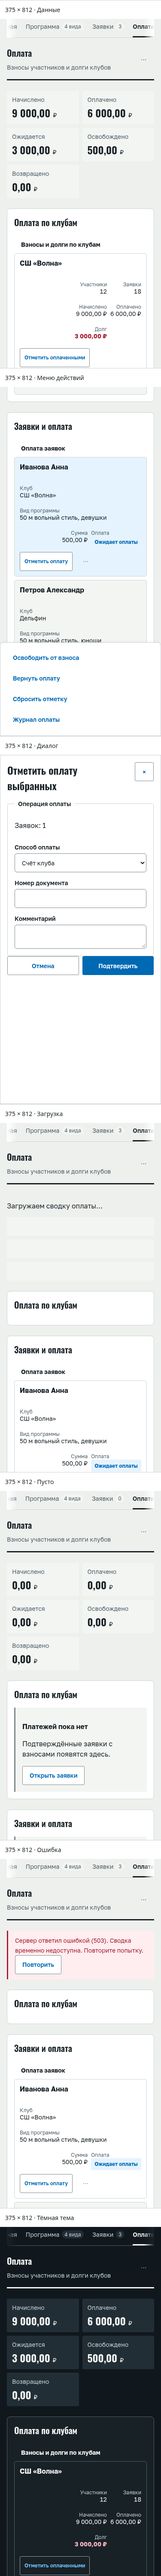
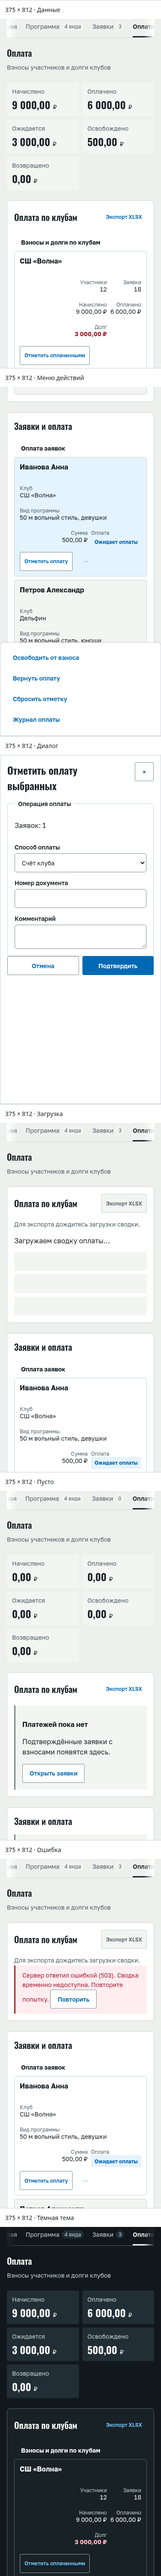
fix(payments-admin): address review menus and payment layout

diff --git a/sport-platform/frontend/src/features/payments/OrganizerPaymentsPage.tsx b/sport-platform/frontend/src/features/payments/OrganizerPaymentsPage.tsx
@@ -43,8 +43,15 @@ function PaymentMenu({ label, children }: { label: string; children: ReactNode }
     document.addEventListener('pointerdown', close)
     return () => { document.removeEventListener('keydown', close); document.removeEventListener('pointerdown', close) }
   }, [open])
-  return <><button ref={trigger} type="button" className="fl-btn fl-btn-ghost" aria-label={label} aria-haspopup="dialog" aria-expanded={open} aria-controls={open ? id : undefined} onClick={() => setOpen(!open)}>⋯</button>
-    {open && createPortal(<div ref={panel} id={id} className={styles.menu} role="dialog" aria-label={label} onClick={event => {
+  return <><button ref={trigger} type="button" className="fl-btn fl-btn-ghost" aria-label={label} aria-haspopup="menu" aria-expanded={open} aria-controls={open ? id : undefined} onClick={() => setOpen(!open)}>⋯</button>
+    {open && createPortal(<div ref={panel} id={id} className={styles.menu} role="menu" aria-label={label} onKeyDown={event => {
+      if (!['ArrowDown', 'ArrowUp', 'Home', 'End'].includes(event.key)) return
+      event.preventDefault()
+      const items = [...event.currentTarget.querySelectorAll<HTMLButtonElement>('[role="menuitem"]:not(:disabled)')]
+      const current = items.indexOf(document.activeElement as HTMLButtonElement)
+      const index = event.key === 'Home' ? 0 : event.key === 'End' ? items.length - 1 : (current + (event.key === 'ArrowDown' ? 1 : -1) + items.length) % items.length
+      items[index]?.focus()
+    }} onClick={event => {
       if ((event.target as HTMLElement).closest('button:not(:disabled)')) { setOpen(false); trigger.current?.focus() }
     }}>{children}</div>, document.body)}</>
 }
@@ -105,21 +112,23 @@ function PaymentsContent({ context }: { context: EventContext }) {
     { key: 'actions', header: 'Действия', render: r => <div className={styles.actions}>
       <Button disabled={disabled} title={disabledReason} onClick={() => setMutation({ ids: [r.id], amount: r.feeAmount })}>Отметить оплату</Button>
       <PaymentMenu label={`Действия оплаты: ${name(r)}`}>
-        {([['waive-payment', 'Освободить от взноса'], ['refund-payment', 'Вернуть оплату'], ['reset-payment', 'Сбросить отметку']] as const).map(([action, label]) => <Button key={action} variant="ghost" disabled={disabled} title={disabledReason} onClick={() => setMutation({ ids: [r.id], action, amount: action === 'refund-payment' ? r.paidAmount : undefined })}>{label}</Button>)}
-        <Button variant="ghost" onClick={() => setHistory(r.id)}>Журнал оплаты</Button>
+        {([['waive-payment', 'Освободить от взноса'], ['refund-payment', 'Вернуть оплату'], ['reset-payment', 'Сбросить отметку']] as const).map(([action, label]) => <Button key={action} role="menuitem" variant="ghost" disabled={disabled} title={disabledReason} onClick={() => setMutation({ ids: [r.id], action, amount: action === 'refund-payment' ? r.paidAmount : undefined })}>{label}</Button>)}
+        <Button role="menuitem" variant="ghost" onClick={() => setHistory(r.id)}>Журнал оплаты</Button>
       </PaymentMenu>
     </div> },
   ]
   return <section className={styles.page} aria-label="Оплата">
-    <header className={`fl-page-header ${styles.heading}`}><div><h2>Оплата</h2><p className="fl-meta">Взносы участников и долги клубов</p></div>
-      <PaymentMenu label="Действия оплаты"><Button variant="ghost" disabled={busy || !summary} title={busy ? disabledReason : !summary ? 'Сводка оплаты ещё не загружена' : undefined} onClick={() => { void run(() => downloadPaymentSummary(event.id, accessToken), 'registrations') }}>Экспорт XLSX</Button>{!summary && <small>Для экспорта дождитесь загрузки сводки.</small>}</PaymentMenu>
-    </header>
-    {error && <Notice tone="danger">{error} <Button onClick={retry}>Повторить</Button></Notice>}
-    {loading && <div role="status"><p>Загружаем сводку оплаты…</p><div className={styles.skeleton} aria-hidden="true"><span /><span /><span /></div></div>}
+    <header className={styles.heading}><div><h2>Оплата</h2><p className="fl-meta">Взносы участников и долги клубов</p></div></header>
     {summary && <dl className={styles.summary}>{Object.entries({ due: 'Начислено', paid: 'Оплачено', pending: 'Ожидается', waived: 'Освобождено', refunded: 'Возвращено' }).map(([key, label]) => <div className="fl-summary-cell" key={key}><dt>{label}</dt><dd>{new Intl.NumberFormat('ru-RU', { style: 'currency', currency: summary.currency }).formatToParts(summary.totals[key as keyof PaymentSummary['totals']]).map((part, index) => <span key={index} className={part.type === 'currency' ? styles.currency : undefined}>{part.value}</span>)}</dd></div>)}</dl>}
     <div className={styles.layout}>
       <div className={styles.lists}>
-        <article className={styles.card}><h2>Оплата по клубам</h2>
+        <article className={styles.card}>
+          <header className={styles.cardHeading}><h2>Оплата по клубам</h2>
+            <Button variant="ghost" size="sm" disabled={busy || !summary} title={busy ? disabledReason : !summary ? 'Сводка оплаты ещё не загружена' : undefined} onClick={() => { void run(() => downloadPaymentSummary(event.id, accessToken), 'registrations') }}>Экспорт XLSX</Button>
+          </header>
+          {!summary && <small className="fl-meta">Для экспорта дождитесь загрузки сводки.</small>}
+          {error && <Notice tone="danger">{error} <Button onClick={retry}>Повторить</Button></Notice>}
+          {loading && <div role="status"><p>Загружаем сводку оплаты…</p><div className={styles.skeleton} aria-hidden="true"><span /><span /><span /></div></div>}
           {summary && (summary.byClub.length ? <div className={`${styles.rowcards} ${styles.clubCards}`}><DataTable caption="Взносы и долги по клубам" columns={clubColumns} rows={summary.byClub} rowKey={c => c.club} minWidth={760} /></div> : <EmptyState title="Платежей пока нет" action={<Button as={Link} to={`/organizer/events/${event.id}/entries`}>Открыть заявки</Button>}><p>Подтверждённые заявки с взносами появятся здесь.</p></EmptyState>)}
           {!summary && !loading && !error && <EmptyState title="Сводка пока недоступна" action={<Button onClick={retry}>Повторить</Button>} />}
         </article>

diff --git a/sport-platform/frontend/src/features/admin/UsersAdminPage.tsx b/sport-platform/frontend/src/features/admin/UsersAdminPage.tsx
@@ -35,8 +35,15 @@ function UserMenu({ label, children }: { label: string; children: ReactNode }) {
     document.addEventListener('pointerdown', close)
     return () => { document.removeEventListener('keydown', close); document.removeEventListener('pointerdown', close) }
   }, [open])
-  return <><button ref={trigger} type="button" className="fl-btn fl-btn-ghost" aria-label={label} aria-haspopup="dialog" aria-expanded={open} aria-controls={open ? id : undefined} onClick={() => setOpen(!open)}>⋯</button>
-    {open && createPortal(<div id={id} ref={panel} className={styles.menu} role="dialog" aria-label={label} onClick={event => {
+  return <><button ref={trigger} type="button" className="fl-btn fl-btn-ghost" aria-label={label} aria-haspopup="menu" aria-expanded={open} aria-controls={open ? id : undefined} onClick={() => setOpen(!open)}>⋯</button>
+    {open && createPortal(<div id={id} ref={panel} className={styles.menu} role="menu" aria-label={label} onKeyDown={event => {
+      if (!['ArrowDown', 'ArrowUp', 'Home', 'End'].includes(event.key)) return
+      event.preventDefault()
+      const items = [...event.currentTarget.querySelectorAll<HTMLButtonElement>('[role="menuitem"]:not(:disabled)')]
+      const current = items.indexOf(document.activeElement as HTMLButtonElement)
+      const index = event.key === 'Home' ? 0 : event.key === 'End' ? items.length - 1 : (current + (event.key === 'ArrowDown' ? 1 : -1) + items.length) % items.length
+      items[index]?.focus()
+    }} onClick={event => {
       if ((event.target as HTMLElement).closest('button:not(:disabled)')) { setOpen(false); trigger.current?.focus() }
     }}>{children}</div>, document.body)}</>
 }
@@ -52,6 +59,7 @@ export function UsersAdminPage() {
   const [roles, setRoles] = useState<Role[]>([])
   const [loading, setLoading] = useState(true)
   const [error, setError] = useState('')
+  const [rolesLoading, setRolesLoading] = useState(true)
   const [rolesError, setRolesError] = useState('')
   const [reload, setReload] = useState(0)
   const [action, setAction] = useState<Action | null>(null)
@@ -72,8 +80,8 @@ export function UsersAdminPage() {
   }, [query])
   useEffect(() => {
     let active = true
-    setRolesError('')
-    getRoles(token).then(value => { if (active) setRoles(value) }).catch(err => { if (active) setRolesError(adminError(err)) })
+    setRolesLoading(true); setRolesError('')
+    getRoles(token).then(value => { if (active) setRoles(value) }).catch(err => { if (active) setRolesError(adminError(err)) }).finally(() => { if (active) setRolesLoading(false) })
     return () => { active = false }
   }, [token, reload])
   useEffect(() => {
@@ -157,14 +165,14 @@ export function UsersAdminPage() {
     { key: 'actions', header: 'Действия', render: user => <div className={styles.actions}>
       <Button onClick={() => open({ type: 'roles', user })}>Роли</Button>
       <UserMenu label={`Действия пользователя ${user.email}`}>
-        {user.status !== 'INACTIVE' && <Button variant="ghost" onClick={() => open({ type: 'status', user })}>{user.status === 'ACTIVE' ? 'Заблокировать' : 'Разблокировать'}</Button>}
-        <Button variant="ghost" onClick={() => open({ type: 'password', user })}>Сменить пароль</Button>
+        {user.status !== 'INACTIVE' && <Button role="menuitem" variant="ghost" onClick={() => open({ type: 'status', user })}>{user.status === 'ACTIVE' ? 'Заблокировать' : 'Разблокировать'}</Button>}
+        <Button role="menuitem" variant="ghost" onClick={() => open({ type: 'password', user })}>Сменить пароль</Button>
       </UserMenu>
     </div> },
   ]
   return <section className={styles.page}>
     <PageHeader title="Пользователи" actions={<Button variant="primary" title={!roles.length ? 'Нет доступного справочника ролей' : undefined} disabled={!roles.length} onClick={() => open({ type: 'create' })}>Создать пользователя</Button>} />
-    {!roles.length && <p className="fl-meta">Создание пользователя станет доступно после загрузки справочника ролей.</p>}
+    {!roles.length && (rolesError || !rolesLoading) && <p className="fl-meta">Создание пользователя станет доступно после загрузки справочника ролей.</p>}
     <AdminNav />
     <div className={styles.toolbar}>
       <label className="fl-field">Поиск пользователей<input type="search" placeholder="Email, фамилия или имя" value={query} onChange={event => setQuery(event.target.value)} /></label>

diff --git a/sport-platform/frontend/src/features/admin/UsersAdminPage.test.tsx b/sport-platform/frontend/src/features/admin/UsersAdminPage.test.tsx
@@ -69,7 +69,7 @@ it('checks matching passwords and supports revealing them', async () => {
   render(<MemoryRouter initialEntries={['/admin/users']}><UsersAdminPage /></MemoryRouter>)
   const row = (await screen.findByText('user@flounder.demo')).closest('tr')!
   await userEvent.click(within(row).getByRole('button', { name: 'Действия пользователя user@flounder.demo' }))
-  await userEvent.click(screen.getByRole('button', { name: 'Сменить пароль' }))
+  await userEvent.click(screen.getByRole('menuitem', { name: 'Сменить пароль' }))
   await userEvent.type(screen.getByLabelText('Новый пароль'), 'NewPass2026!')
   await userEvent.type(screen.getByLabelText('Повторите пароль'), 'Different2026!')
   await userEvent.click(screen.getByLabelText('Показать пароль'))
@@ -106,9 +106,12 @@ it('closes the overflow menu on Escape and returns focus to its trigger', async 
   render(<MemoryRouter initialEntries={['/admin/users']}><UsersAdminPage /></MemoryRouter>)
   const trigger = await screen.findByRole('button', { name: 'Действия пользователя user@flounder.demo' })
   await userEvent.click(trigger)
-  expect(screen.getByRole('dialog', { name: 'Действия пользователя user@flounder.demo' })).toBeInTheDocument()
-  await userEvent.keyboard('{Escape}')
+  expect(screen.getByRole('menu', { name: 'Действия пользователя user@flounder.demo' })).toBeInTheDocument()
   expect(screen.queryByRole('dialog')).not.toBeInTheDocument()
+  await userEvent.keyboard('{ArrowDown}')
+  expect(screen.getByRole('menuitem', { name: 'Сменить пароль' })).toHaveFocus()
+  await userEvent.keyboard('{Escape}')
+  expect(screen.queryByRole('menu')).not.toBeInTheDocument()
   expect(trigger).toHaveFocus()
 })
 it('keeps existing users visible on a failed search and allows retry', async () => {
@@ -122,4 +125,17 @@ it('keeps existing users visible on a failed search and allows retry', async () 
   await userEvent.click(screen.getByRole('button', { name: 'Повторить' }))
   await waitFor(() => expect(screen.queryByRole('alert')).not.toBeInTheDocument())
   expect(screen.getByText('user@flounder.demo')).toBeInTheDocument()
+})
+it('waits for roles before showing the unavailable-role hint', async () => {
+  let resolve!: () => void
+  const pending = new Promise<void>(done => { resolve = done })
+  server.use(http.get('*/api/v1/roles', async () => {
+    await pending
+    return HttpResponse.json([])
+  }))
+  render(<MemoryRouter initialEntries={['/admin/users']}><UsersAdminPage /></MemoryRouter>)
+  expect(screen.queryByText('Создание пользователя станет доступно после загрузки справочника ролей.')).not.toBeInTheDocument()
+  resolve()
+  expect(await screen.findByText('Создание пользователя станет доступно после загрузки справочника ролей.')).toBeInTheDocument()
+  expect(screen.getByRole('button', { name: 'Создать пользователя' })).toBeDisabled()
 })

diff --git a/sport-platform/frontend/src/features/payments/OrganizerPayments.module.css b/sport-platform/frontend/src/features/payments/OrganizerPayments.module.css
@@ -1,6 +1,7 @@
 .page, .lists { display: grid; gap: var(--space-6); min-width: 0; }
 .heading h2, .card h2 { margin: 0; font-size: var(--font-size-20); }
-.heading { align-items: center; flex-direction: row; }
+.heading { display: flex; align-items: center; gap: var(--space-4); }
+.cardHeading { display: flex; align-items: center; justify-content: space-between; flex-wrap: wrap; gap: var(--space-3); margin-bottom: var(--space-4); }
 .heading p { margin-bottom: 0; }
 .summary { display: grid; grid-template-columns: repeat(2, minmax(0, 1fr)); gap: var(--space-2); margin: 0; }
 .summary dt { font-size: var(--text-sm); color: var(--color-text-muted); }
@@ -11,13 +12,13 @@
 .card > h2 { margin-bottom: var(--space-4); }
 .actions { display: flex; align-items: center; gap: var(--space-2); }
 .debt { color: var(--color-danger); }
+.settings :global(.fl-form) { max-width: calc(var(--space-16) * 10); }
 .settings > summary { cursor: pointer; min-height: var(--tap-target); display: flex; align-items: center; gap: var(--space-2); }
 .settings > summary::after { content: '⌄'; margin-left: auto; }
 .settings[open] > summary { margin-bottom: var(--space-4); }
 .settings[open] > summary::after { content: '⌃'; }
 .settings :is(input, select, textarea), .dialog :is(input, select, textarea) { max-width: 100%; min-width: 0; }
 .check { display: flex; align-items: center; gap: var(--space-2); min-height: var(--tap-target); cursor: pointer; }
-.check input { min-width: var(--tap-target); min-height: var(--tap-target); }
 /* Local scroll cue and row cards, as specified in D04 section (д). */
 .rowcards { min-width: 0; }
 .rowcards :global(.fl-data-table-scroll) { scrollbar-width: thin; overscroll-behavior-inline: contain; background: linear-gradient(to right, var(--surface-1), var(--surface-1)) left / var(--space-6) 100% no-repeat local, linear-gradient(to left, var(--surface-1), var(--surface-1)) right / var(--space-6) 100% no-repeat local, linear-gradient(to right, var(--border-subtle), transparent) left / var(--space-4) 100% no-repeat scroll, linear-gradient(to left, var(--border-subtle), transparent) right / var(--space-4) 100% no-repeat scroll; }
@@ -36,7 +37,7 @@
 .skeleton { display: grid; gap: var(--space-2); }
 .skeleton span { min-height: var(--control-h); background: var(--surface-2); border-radius: var(--radius-sm); }
 @media (min-width: 768px) { .summary { grid-template-columns: repeat(5, minmax(0, 1fr)); } .card { padding: var(--space-6); } }
-@media (min-width: 1366px) { .layout { grid-template-columns: minmax(0, 1fr) minmax(0, calc(var(--space-16) * 5 + var(--space-10))); } }
+@media (min-width: 1600px) { .layout { grid-template-columns: minmax(0, 1fr) minmax(0, calc(var(--space-16) * 5 + var(--space-10))); } }
 @media (max-width: 767px) {
   .menu { inset: auto 0 0; width: 100%; max-height: 75dvh; border-radius: var(--radius-lg) var(--radius-lg) 0 0; padding-bottom: max(var(--space-4), env(safe-area-inset-bottom)); }
   .dialog { width: 100%; max-width: 100%; height: 100dvh; max-height: 100dvh; margin: 0; border-radius: 0; padding: var(--space-4); }

diff --git a/sport-platform/frontend/src/features/admin/Admin.module.css b/sport-platform/frontend/src/features/admin/Admin.module.css
@@ -20,7 +20,6 @@
 .form > label { display: grid; gap: var(--space-2); }
 .checks { display: grid; gap: var(--space-2); }
 .checks label, .check, .check span { display: flex; align-items: center; gap: var(--space-2); min-height: var(--tap-target); cursor: pointer; }
-.checks input, .check input { min-height: var(--tap-target); min-width: var(--tap-target); }
 .pagination { justify-content: center; flex-wrap: wrap; }
 .dialogActions { justify-content: flex-end; }
 .queue { display: grid; gap: var(--space-4); }
@@ -32,13 +31,15 @@
 .navigation :global(.fl-tabs a) { min-height: var(--tap-target); }
 /* Local scroll cue and row cards, as specified in D04 section (д). */
 .rowcards { min-width: 0; }
-.rowcards :global(.fl-data-table-scroll) { scrollbar-width: thin; overscroll-behavior-inline: contain; background: linear-gradient(to right, var(--surface-1), var(--surface-1)) left / var(--space-6) 100% no-repeat local, linear-gradient(to left, var(--surface-1), var(--surface-1)) right / var(--space-6) 100% no-repeat local, linear-gradient(to right, var(--border-subtle), transparent) left / var(--space-4) 100% no-repeat scroll, linear-gradient(to left, var(--border-subtle), transparent) right / var(--space-4) 100% no-repeat scroll; }
+.rowcards :global(.fl-data-table-scroll), .page :global(.fl-table-scroll) { scrollbar-width: thin; overscroll-behavior-inline: contain; background: linear-gradient(to right, var(--surface-1), var(--surface-1)) left / var(--space-6) 100% no-repeat local, linear-gradient(to left, var(--surface-1), var(--surface-1)) right / var(--space-6) 100% no-repeat local, linear-gradient(to right, var(--border-subtle), transparent) left / var(--space-4) 100% no-repeat scroll, linear-gradient(to left, var(--border-subtle), transparent) right / var(--space-4) 100% no-repeat scroll; }
 .rowcards :is(th, td) { overflow-wrap: anywhere; }
 .menu { position: fixed; inset: var(--header-h) var(--space-4) auto auto; z-index: var(--z-dialog); display: grid; gap: var(--space-1); width: min(calc(100% - var(--space-8)), calc(var(--space-16) * 5)); max-height: calc(100dvh - var(--header-h) - var(--space-4)); overflow-y: auto; padding: var(--space-3); background: var(--surface-1); color: var(--color-text); border: 1px solid var(--border-subtle); border-radius: var(--radius-lg); box-shadow: var(--shadow-pop); }
 .menu > button { justify-content: flex-start; min-height: var(--tap-target); }
 .skeleton { display: grid; gap: var(--space-2); }
 .skeleton span { min-height: var(--control-h); border-radius: var(--radius-sm); background: var(--surface-2); }
 @media (max-width: 767px) {
+  .table { min-width: max-content; }
+  .table th, .table td { overflow-wrap: normal; }
   .toolbar { display: grid; grid-template-columns: minmax(0, 1fr); }
   .dialog { width: 100%; max-width: 100%; height: 100dvh; max-height: 100dvh; margin: 0; border-radius: 0; padding: var(--space-4); }
   .dialogActions { flex-direction: row; flex-wrap: wrap; }

diff --git a/sport-platform/frontend/src/features/payments/OrganizerPaymentsPage.test.tsx b/sport-platform/frontend/src/features/payments/OrganizerPaymentsPage.test.tsx
@@ -41,8 +41,11 @@ it('shows loading, distinguishes a server failure and retries without losing ent
   vi.mocked(paymentSummary).mockReturnValueOnce(new Promise((_, no) => { reject = no }))
   show()
   expect(screen.getByRole('status')).toHaveTextContent('Загружаем сводку оплаты')
+  const clubCard = screen.getByRole('heading', { name: 'Оплата по клубам' }).closest('article')!
+  expect(within(clubCard).getByRole('status')).toBeInTheDocument()
   reject(new ApiError(503, 'Повторите позже'))
   expect(await screen.findByRole('alert')).toHaveTextContent('Сервер ответил ошибкой (503)')
+  expect(within(clubCard).getByRole('alert')).toHaveTextContent('Сервер ответил ошибкой (503)')
   expect(screen.getByRole('table', { name: 'Оплата заявок' })).toBeInTheDocument()
   await userEvent.click(screen.getByRole('button', { name: 'Повторить' }))
   expect(await screen.findByRole('table', { name: 'Взносы и долги по клубам' })).toBeInTheDocument()
@@ -69,7 +72,10 @@ it('opens a refund from the row menu and requires a comment', async () => {
   show()
   const table = screen.getByRole('table', { name: 'Оплата заявок' })
   await userEvent.click(within(table).getByRole('button', { name: /Действия оплаты:/ }))
-  await userEvent.click(screen.getByRole('button', { name: 'Вернуть оплату' }))
+  expect(screen.getByRole('menu', { name: /Действия оплаты:/ })).toBeInTheDocument()
+  expect(screen.queryByRole('dialog')).not.toBeInTheDocument()
+  await userEvent.click(screen.getByRole('menuitem', { name: 'Вернуть оплату' }))
+  expect(screen.queryByRole('menu')).not.toBeInTheDocument()
   const dialog = screen.getByRole('dialog', { name: 'Вернуть оплату' })
   expect(within(dialog).getByLabelText('Комментарий')).toBeRequired()
   await userEvent.type(within(dialog).getByLabelText('Комментарий'), 'Ошибочный взнос')

diff --git a/sport-platform/frontend/e2e/qa07-admin.spec.ts b/sport-platform/frontend/e2e/qa07-admin.spec.ts
@@ -39,7 +39,8 @@ test('M01: admin manages a new user, revokes blocked JWT, creates and approves o
     const userPage = await userContext.newPage()
     await login(userPage, email, '/', password)
     const oldToken = await token(userPage)
-    await row.getByRole('button', { name: 'Заблокировать', exact: true }).click()
+    await row.getByRole('button', { name: /Действия пользователя/ }).click()
+    await page.getByRole('menuitem', { name: 'Заблокировать', exact: true }).click()
     await submitDialog(page, 'Подтвердить')
     await expect(row).toContainText('Заблокирован')
     const blockedToken = await request(page.request, '/auth/me', 'GET', undefined, oldToken)
@@ -54,12 +55,14 @@ test('M01: admin manages a new user, revokes blocked JWT, creates and approves o
     expect((await rejectedLogin).status()).toBe(403)
     await expect(userPage.getByRole('alert')).toBeVisible()
     await expect(userPage).toHaveURL(/\/login/)
-    await row.getByRole('button', { name: 'Разблокировать', exact: true }).click()
+    await row.getByRole('button', { name: /Действия пользователя/ }).click()
+    await page.getByRole('menuitem', { name: 'Разблокировать', exact: true }).click()
     await submitDialog(page, 'Подтвердить')
     await expect(row).toContainText('Активен')
     await login(userPage, email, '/')
 
-    await row.getByRole('button', { name: 'Сменить пароль', exact: true }).click()
+    await row.getByRole('button', { name: /Действия пользователя/ }).click()
+    await page.getByRole('menuitem', { name: 'Сменить пароль', exact: true }).click()
     await dialog.getByLabel('Новый пароль').fill(changedPassword)
     await dialog.getByLabel('Повторите пароль').fill(changedPassword)
     await submitDialog(page)
